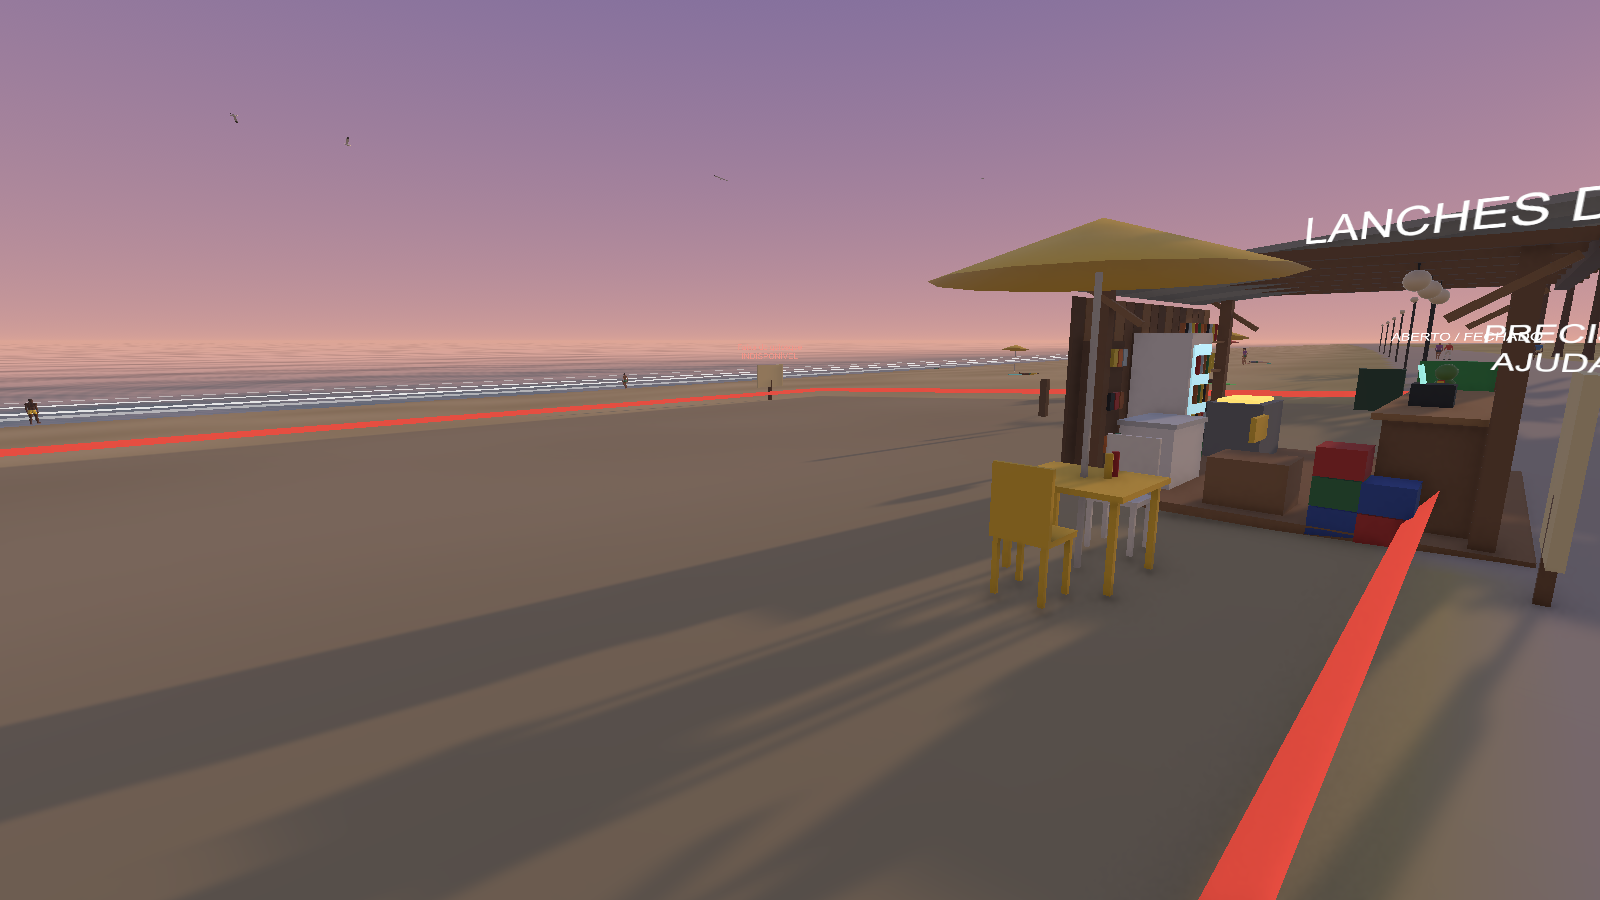
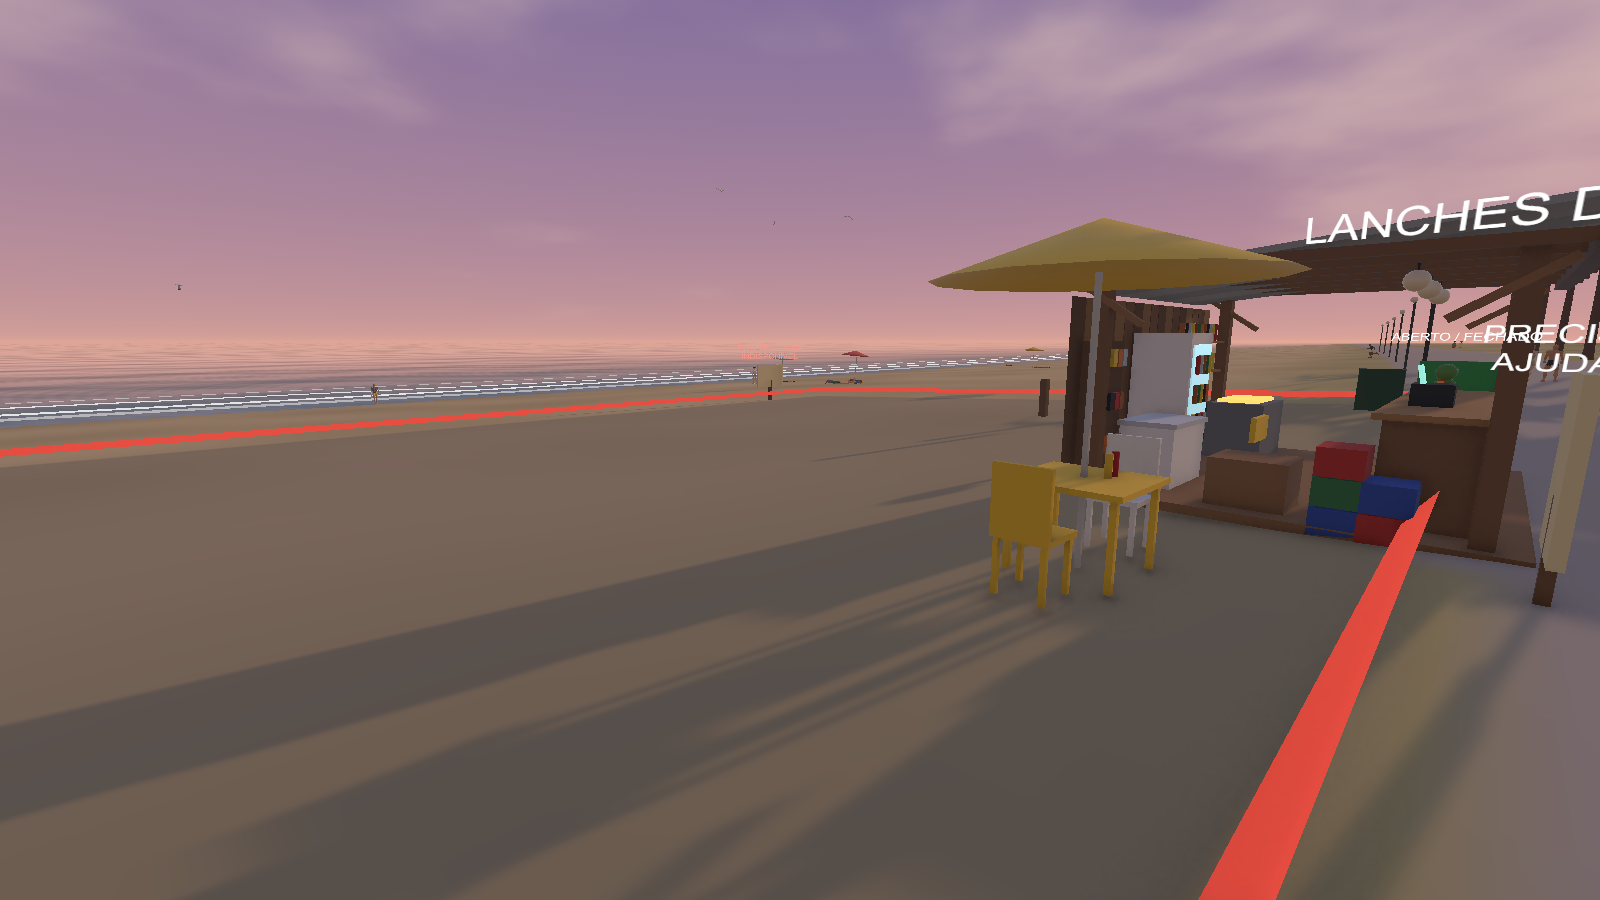
Phase 02: procedural clouds in the sky shader, tinted by the clock and denser when the weather is cloudy

diff --git a/FacilityOps/Assets/_Game/Scripts/Resort/Game/DayNightCycle.cs b/FacilityOps/Assets/_Game/Scripts/Resort/Game/DayNightCycle.cs
@@ -197,6 +197,11 @@ namespace ResortAurora.Game
                 sky.SetColor("_SunColor", (sun != null ? sun.color : Color.white) * Mathf.Clamp01((elev + 2f) / 6f));
                 sky.SetColor("_Glow", new Color(1f, 0.52f, 0.26f) * (0.55f * glowK));
                 sky.SetFloat("_SunDisc", 1f);
+                var cloud = Color.Lerp(new Color(0.96f, 0.97f, 0.99f), new Color(1f, 0.74f, 0.58f), golden * 0.8f);
+                cloud = Color.Lerp(cloud, new Color(0.055f, 0.075f, 0.15f), night);
+                cloud = Color.Lerp(cloud, new Color(0.30f, 0.22f, 0.38f), dusk * 0.5f);
+                sky.SetColor("_CloudColor", cloud);
+                sky.SetFloat("_CloudCover", game.Weather == Weather.Cloudy ? 0.78f : 0.4f);
             }
             else if (sky != null)
             {

diff --git a/Docs/PROJECT_RESORT_EXECUTION/CLAUDE_CURRENT_TASK.md b/Docs/PROJECT_RESORT_EXECUTION/CLAUDE_CURRENT_TASK.md
@@ -1,6 +1,6 @@
 # PROJECT RESORT — Tarefa Atual do Claude
 
-Atualizado em 2026-10-06 (fim da rodada 4 de refinamentos seguros da Fase 02).
+Atualizado em 2026-10-06 (fim da rodada 5 de refinamentos seguros da Fase 02).
 
 ## Fase atual
 
@@ -20,19 +20,20 @@ A Fase 03 NÃO está liberada.
 - Rodada 2 (feita): clientes sentam nas mesas do deck do quiosque do estágio 2 (10 cadeiras, rota própria, altura do deck); HUD com faixa de "próximo passo" + estoque baixo + ABERTO/FECHADO + vendas do dia; guarda de balanceamento do primeiro dia. Captura: `f02_7_estagio2_clientes_no_deck.png`.
 - Rodada 3 (feita): mar com shader próprio (`Resources/ResortSea.shader`: cor por profundidade, ondulação, Fresnel, brilho) e malha que segue a linha d'água; céu noturno sem o brilho amarelo (o sol agora desce abaixo do horizonte). 20/20 testes, sem regressão de desempenho (2,8 ms).
 - Rodada 4 (feita): céu com shader próprio (`Resources/ResortSky.shader`): crepúsculo violeta e noite azul-marinho com estrelas no lugar do oliva/preto; 20/20 testes, 0 erros de shader.
-- Relatório: `RELATORIO_02_VERTICAL_SLICE_QUIOSQUE.md` (adendos 1 a 4 de 2026-10-06).
+- Rodada 5 (feita): nuvens procedurais no shader do céu (`ResortSky.shader`, cor por hora, cobertura maior com clima nublado); 20/20 testes, 0 erros de shader.
+- Relatório: `RELATORIO_02_VERTICAL_SLICE_QUIOSQUE.md` (adendos 1 a 5 de 2026-10-06).
 
 ## Pendente (nada disso se resolve só com código)
 
 1. **HUMAN_GATE_PENDING**: uma pessoa precisa jogar dois dias e avaliar ritmo, clareza do HUD, diversão e a "vida" da praia; ouvir o áudio; olhar as capturas.
-2. Gate visual segue aberto: personagens/quiosque/guarda-sóis ainda são blockout; mar com shader simples (sem refração/reflexo de objetos); noite sem nuvens nem reflexo de objetos na água.
+2. Gate visual segue aberto: personagens/quiosque/guarda-sóis ainda são blockout; mar com shader simples (sem refração/reflexo de objetos); céu com nuvens só cosméticas; noite sem reflexo de objetos na água.
 
 ## Trabalho seguro dentro da Fase 02 (se a rodada continuar antes do gate humano)
 
 - ~~Clientes sentarem nas mesas no estágio 2~~ (feito). ~~HUD de próximo passo~~ (feito; falta olhar humano).
 - Corrigir no Blender (`Tools/Blender/sa_stages.py::kiosk`) a mesa oeste a 7 m que cai dentro do bloco de banheiros e então reativar essa mesa em `StallLayout.AddKioskSeats` (exige o `.blend` base e regenerar/re-exportar o FBX do estágio 2).
 - Sentar/deitar/nadar ainda são procedurais: avaliar clipes gratuitos (Human Crafting Animations FREE, Creative Characters FREE) e o aspecto dos corpos animados; se os manequins ainda parecerem artificiais de perto, o Diretor deve apresentar 1–3 opções pagas ao usuário antes de comprar qualquer coisa.
-- Refinar o rig/roupas dos NPCs; mar sem espuma de profundidade/reflexos de objetos e céu sem nuvens (cosmético); mais variedade de atividades na areia.
+- Refinar o rig/roupas dos NPCs; mar sem espuma de profundidade/reflexos de objetos (cosmético); mais variedade de atividades na areia.
 - Equilíbrio fino da fila/spawn só com dados de jogada humana (curva atual: 6–8h quase sem clientes; o teste `FirstDayDemandIsWorthPlayingAndProfitable` protege a faixa).
 
 ## Próxima ação concreta

diff --git a/Docs/PROJECT_RESORT_EXECUTION/RELATORIO_02_VERTICAL_SLICE_QUIOSQUE.md b/Docs/PROJECT_RESORT_EXECUTION/RELATORIO_02_VERTICAL_SLICE_QUIOSQUE.md
@@ -139,3 +139,21 @@ Depois abrir `ResortPrologue` e jogar: olhar o calçadão às 12h, 18h20 e 20h30
 - Sem nuvens; a tarde dourada ficou mais lilás que alaranjada nas capturas olhando para leste (o brilho quente fica do lado do sol, para oeste); ajuste fino de arte depende de olho humano.
 - O desempenho não foi remedido nesta rodada (o céu é um único quad de skybox, custo desprezível); a medição de 2,8 ms do adendo 3 permanece a última real.
 - Nada disso foi visto por uma pessoa: gate visual e humano continuam abertos.
+
+
+---
+
+# Adendo 5 — nuvens no céu (2026-10-06, rodada 5)
+
+**Status: COMPILADO, TESTADO (20/20 PlayMode, modo gráfico, 0 `error CS` / `Shader error` no log) e CAPTURADO. Gate técnico segue PASS. `HUMAN_GATE_PENDING` continua; a Fase 03 NÃO está liberada.**
+
+## O que mudou
+- `Resources/ResortSky.shader`: camada de nuvens procedural (fbm de ruído de valor, projetada na cúpula, mais densa perto do horizonte, derivando devagar com `_Time`), com borda clara do lado do sol. Novas propriedades `_CloudColor` e `_CloudCover`.
+- `DayNightCycle.Apply`: cor das nuvens por hora (branco de dia, rosado/dourado no pôr do sol, violeta no crepúsculo, azul-marinho escuro à noite) e cobertura 0,4 (0,78 quando o clima é `Cloudy`).
+
+## Evidência
+- `Run-UnityResortTests.ps1 -Graphics` -> `TESTS total=20 passed=20 failed=0`; 0 `error CS` / `Shader error`.
+- Capturas reais regeneradas em `ArtSource/Blender/World/Reviews/F02/` (ver `f02_1_dia_praia_para_o_mar.png`: fiapos de nuvem sobre o mar; crepúsculo e noite continuam limpos).
+
+## Limitações
+- Nuvens são só cosméticas (sem sombra no chão, sem volume); desempenho não remedido (custo: 10 amostras de ruído por pixel de céu, desprezível). Nada disso foi visto por uma pessoa.
